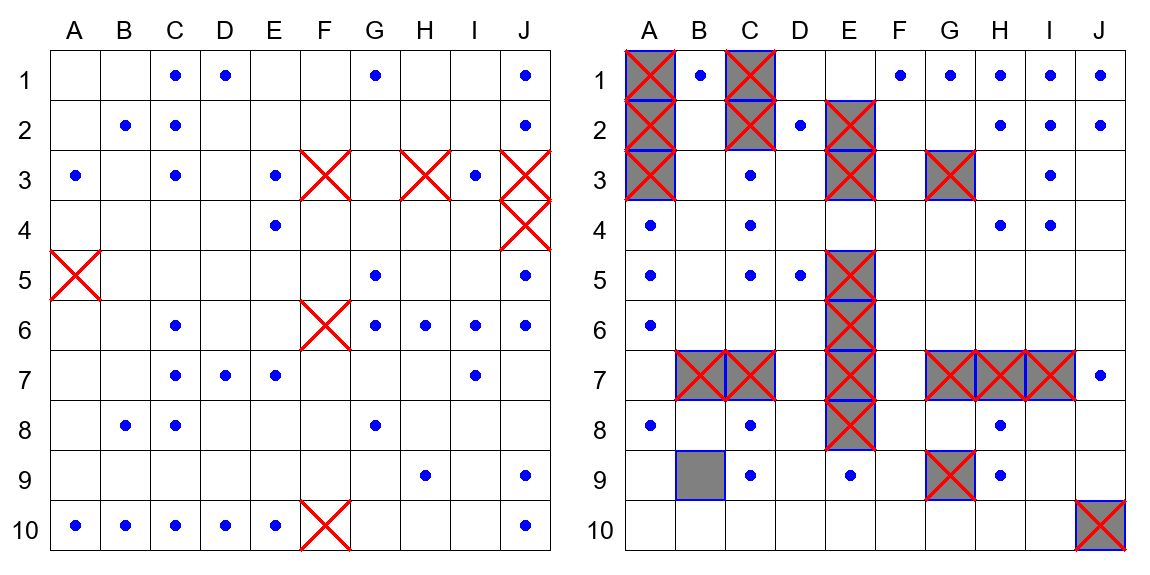
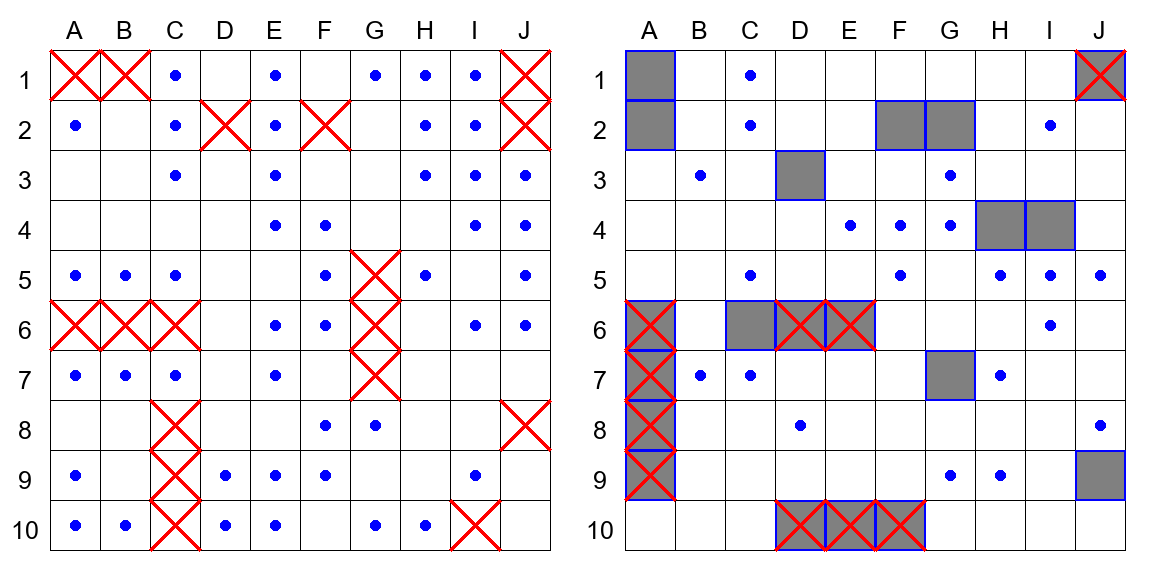
update++

diff --git a/services/game_actions.py b/services/game_actions.py
@@ -54,8 +54,8 @@ def do_bot_action_hit_level_2(user_game_field: Game):
     elif user_game_field.alive_ships:
         if len(user_game_field.damage_cells) == 1:
             next_cell_id = get_next_hit_by_one_damage_cell(game_field=user_game_field)
-            if next_cell_id is None:
-                next_cell_id = choice(list(user_game_field.excluded_miss_cells))
+            # if next_cell_id is None:
+            #     next_cell_id = choice(list(user_game_field.excluded_miss_cells))
 
             ship = user_game_field.damage_register(cell_id=next_cell_id)
             if ship and ship.is_death():
@@ -64,8 +64,8 @@ def do_bot_action_hit_level_2(user_game_field: Game):
         elif 1 < len(user_game_field.damage_cells):
             next_cell_id = get_next_hit_by_few_damage_cells(game_field=user_game_field)
 
-            if next_cell_id is None:
-                next_cell_id = choice(list(user_game_field.excluded_miss_cells))
+            # if next_cell_id is None:
+            #     next_cell_id = choice(list(user_game_field.excluded_miss_cells))
 
             ship = user_game_field.damage_register(cell_id=next_cell_id)
             if ship and ship.is_death():
@@ -76,10 +76,14 @@ def do_bot_action_hit_level_2(user_game_field: Game):
 
 
 def get_next_hit_by_one_damage_cell(game_field: 'Game') -> int | None:
+    size_field = game_field.size
     damage_cell_id = list(game_field.damage_cells)[0]
+    next_cell_1 = damage_cell_id + 1 if damage_cell_id % size_field != 0 else damage_cell_id - 1
+    next_cell_2 = damage_cell_id - 1 if damage_cell_id % size_field != 1 else damage_cell_id + 1
 
-    possible_next_cells = [damage_cell_id + 1, damage_cell_id - 1,
-                           damage_cell_id + 10, damage_cell_id - 10]
+    possible_next_cells = [next_cell_1, next_cell_2,
+                           damage_cell_id + size_field,
+                           damage_cell_id - size_field]
     for next_cell_id in possible_next_cells:
         if next_cell_id in game_field.excluded_miss_cells:
             return next_cell_id
@@ -91,19 +95,33 @@ def get_next_hit_by_one_damage_cell(game_field: 'Game') -> int | None:
 
 def get_next_hit_by_few_damage_cells(game_field: 'Game') -> int | None:
     cell_ids: list = sorted(game_field.damage_cells)
-    next_cell_id = None
+    # next_cell_id = None
     if cell_ids[1] - cell_ids[0] == 1:
-        next_cell_id = max(cell_ids) + 1
-        if next_cell_id not in game_field.excluded_miss_cells:
-            next_cell_id = min(cell_ids) - 1
+        possible_next_cells = [max(cell_ids) + 1, min(cell_ids) - 1]
+
+        for next_cell_id in possible_next_cells:
+            if next_cell_id in game_field.excluded_miss_cells:
+                return next_cell_id
+        for next_cell_id in possible_next_cells:
+            if next_cell_id in game_field.excluded_death_cells:
+                return next_cell_id
+
+        # next_cell_id = max(cell_ids) + 1
+        # if next_cell_id not in game_field.excluded_miss_cells:
+        #     next_cell_id = min(cell_ids) - 1
 
     elif cell_ids[1] - cell_ids[0] == game_field.size:
-        next_cell_id = max(cell_ids) + game_field.size
-        if next_cell_id not in game_field.excluded_miss_cells:
-            next_cell_id = min(cell_ids) - game_field.size
+        possible_next_cells = [max(cell_ids) + game_field.size, min(cell_ids) - game_field.size]
 
-    if (next_cell_id in game_field.excluded_miss_cells) or (next_cell_id in game_field.excluded_death_cells):
-        return next_cell_id
+        for next_cell_id in possible_next_cells:
+            if next_cell_id in game_field.excluded_miss_cells:
+                return next_cell_id
+        for next_cell_id in possible_next_cells:
+            if next_cell_id in game_field.excluded_death_cells:
+                return next_cell_id
+
+    # if (next_cell_id in game_field.excluded_miss_cells) or (next_cell_id in game_field.excluded_death_cells):
+    #     return next_cell_id
 
 
 def remove_cells_death_ship(game_field: 'Game', ship: 'Ship') -> None:
@@ -114,7 +132,6 @@ def remove_cells_death_ship(game_field: 'Game', ship: 'Ship') -> None:
     if length_ship in game_field.alive_ships:
         game_field.alive_ships.remove(length_ship)
     game_field.damage_cells.clear()
-    print(ship._around_ship)
 
 
 game_1 = Game(10)
@@ -123,11 +140,13 @@ game_1.init()
 game_2.init()
 
 image1 = None
-for i in range(50):
+for i in range(100):
     image1 = game_action(randint(1, 10), randint(1, 10),
                          game_1, game_2)
     game_1.move_ships()
     game_2.move_ships()
 image1.save('image1.png')
 print(game_1.excluded_miss_cells)
+print(game_1.excluded_death_cells)
 print(game_1.alive_ships)
+print(game_1.damage_cells)
